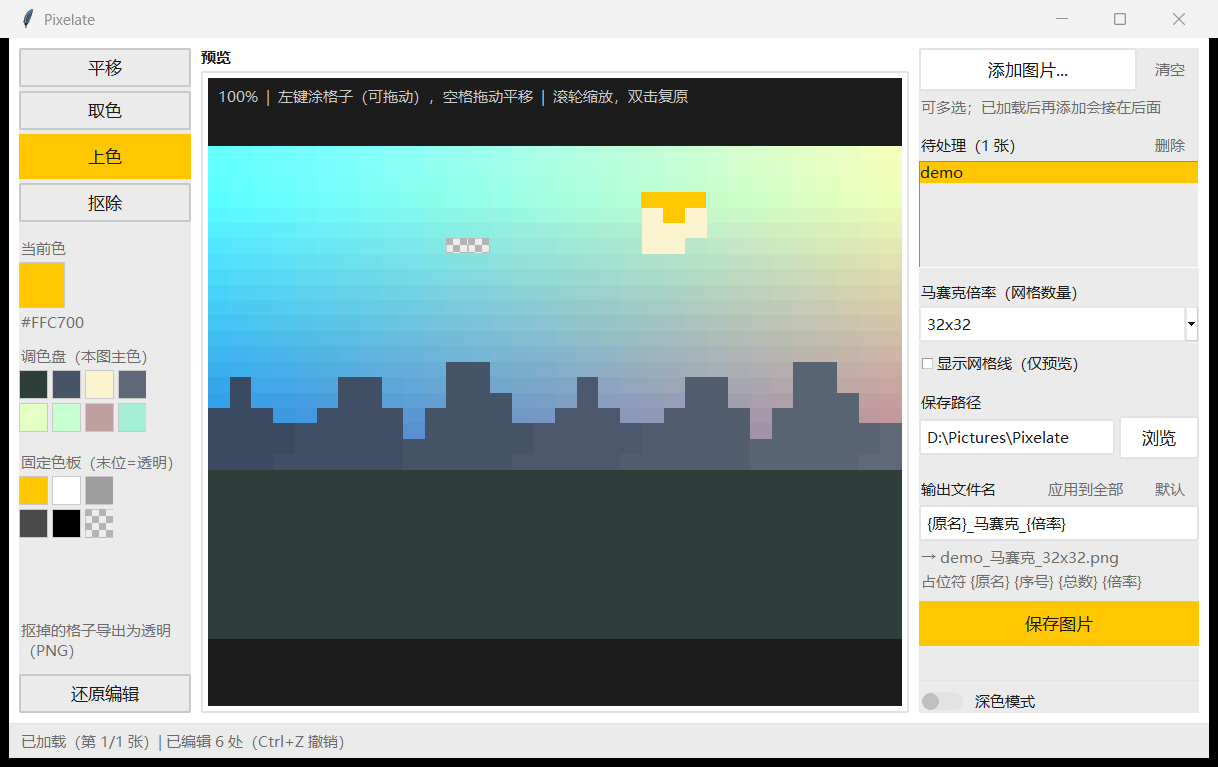
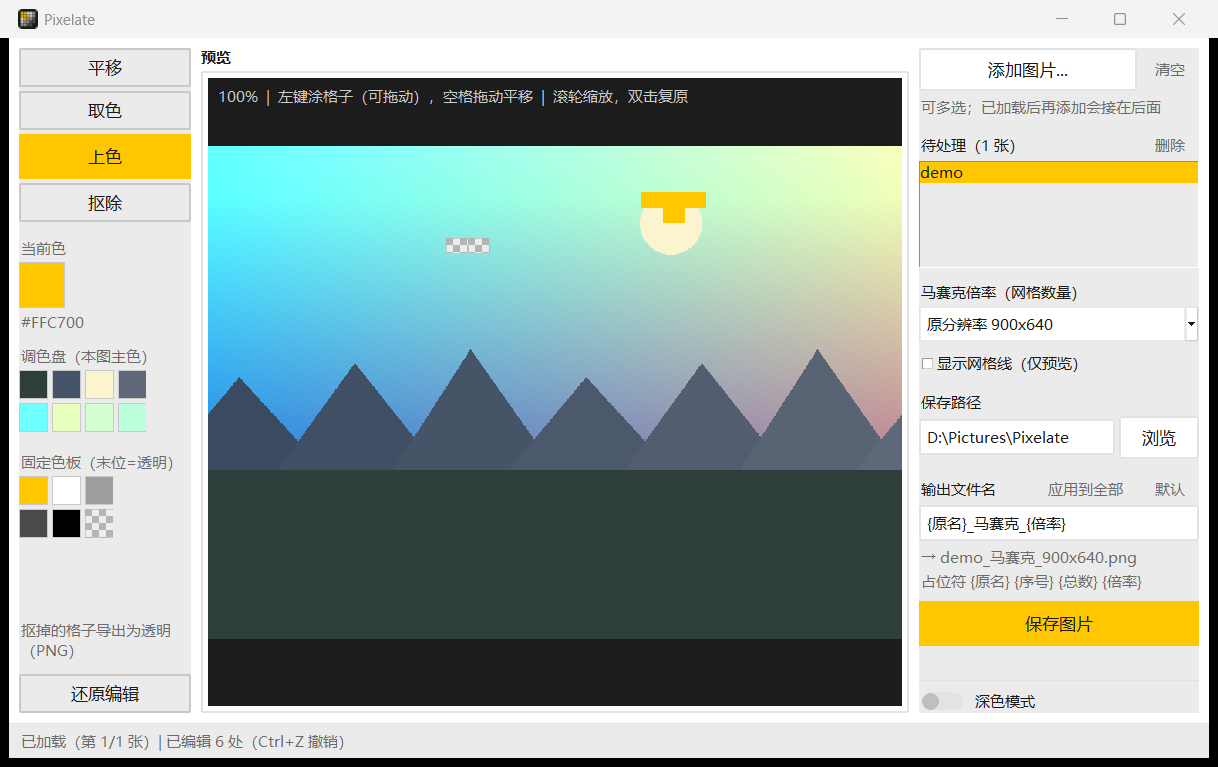
修三处：导入保留透明区、大图卡顿、中键平移
1. 导入不再把透明像素烤成黑块
   - has_alpha() 判别 RGBA / LA / P+transparency，带透明就保留 RGBA
   - 预览对真透明区叠 7px 棋盘格（_preview_rgb / _checker_bg）
   - extract_palette 先叠白底，透明区的黑色不再污染调色盘

2. 大图不再卡（根因是 Tk 的 ImageTk.PhotoImage，不是 Pillow）
   - MAX_PREVIEW_PIXELS=4M 封顶绘制缓冲，超出按比例降采样
   - _photo_for() 按 (尺寸, _rev) 缓存 PhotoImage，平移命中缓存
   - 网格线格数 >600 时不画；抠除棋盘格加绘制预算
   - 实测：平移 ~0ms/帧（原来几百 ms），常规重绘 ~4.7ms

3. 中键拖拽在任意工具下都能平移

另：README 截图重拍（之前漏调 apply_window_icon，标题栏显示的是默认图标）。

diff --git a/mosaic_app.py b/mosaic_app.py
@@ -18,6 +18,10 @@ APP_NAME = "Pixelate"
 ICON_NAME = "icon.ico"
 SETTINGS_FILE = "settings.json"
 HISTORY_LIMIT = 50
+MAX_PREVIEW_PIXELS = 4_000_000
+GRID_LINE_LIMIT = 600
+ERASED_PATTERN_BUDGET = 240
+ERASED_CHECKER_PX = 7
 PALETTE_SIZE = 8
 FIXED_COLORS = ["#FFC700", "#FFFFFF", "#9E9E9E", "#4A4A4A", "#000000"]
 DEFAULT_NAME_TEMPLATE = "{原名}_马赛克_{倍率}"
@@ -496,9 +500,26 @@ def _hex_to_rgb(text):
     return tuple(int(text[i : i + 2], 16) for i in (0, 2, 4))
 
 
+def has_alpha(img):
+    """PNG 透明区（RGBA / LA / 调色板带 transparency）必须保留，否则会被烤成黑块。"""
+    if img.mode in ("RGBA", "LA"):
+        return True
+    return img.mode == "P" and "transparency" in img.info
+
+
 def extract_palette(img, count=8, min_distance=28, sample=48):
-    """从图里取主色：缩到 sample×sample 计数，按占比排序，距离太近的合并掉。"""
-    small = img.convert("RGB").resize((sample, sample), Image.Resampling.NEAREST)
+    """从图里取主色：缩到 sample×sample 计数，按占比排序，距离太近的合并掉。
+
+    带透明的图先叠到白底上，否则透明区的黑色会污染调色盘。
+    """
+    small = img.resize((sample, sample), Image.Resampling.NEAREST)
+    if small.mode == "RGBA":
+        if small.getchannel("A").getextrema()[0] < 255:
+            white = Image.new("RGBA", small.size, (255, 255, 255, 255))
+            small = Image.alpha_composite(white, small)
+        small = small.convert("RGB")
+    else:
+        small = small.convert("RGB")
     colors = small.getcolors(sample * sample + 1) or []
     colors.sort(key=lambda pair: -pair[0])
     picked = []
@@ -612,6 +633,8 @@ class MosaicApp:
         self._stroke_cells = set()
         self._draw_size = (1, 1)
         self._draw_pos = None
+        self._rev = 0
+        self._photo_cache = None
         self._swatches = []
 
         self.dark = load_theme_pref() == "dark"
@@ -642,6 +665,9 @@ class MosaicApp:
         self.canvas.bind("<ButtonPress-1>", self.on_canvas_press)
         self.canvas.bind("<B1-Motion>", self.on_canvas_motion)
         self.canvas.bind("<ButtonRelease-1>", self.on_canvas_release)
+        self.canvas.bind("<ButtonPress-2>", self.on_middle_press)
+        self.canvas.bind("<B2-Motion>", self.on_middle_motion)
+        self.canvas.bind("<ButtonRelease-2>", self.on_middle_release)
         self._build_overlay(left)
         root.bind("<KeyPress-space>", self._on_space_down)
         root.bind("<KeyRelease-space>", self._on_space_up)
@@ -1030,6 +1056,17 @@ class MosaicApp:
         self.pan_start = None
         self.anchor_start = None
 
+    def on_middle_press(self, event):
+        """中键拖拽 = 任何工具下都能平移。"""
+        self.on_pan_start(event)
+
+    def on_middle_motion(self, event):
+        self.on_pan_move(event)
+
+    def on_middle_release(self, event):
+        self.pan_start = None
+        self.anchor_start = None
+
     def _pick_cell(self, cell):
         """吸管：取该格当前显示的颜色（编辑过的也算数，所见即所得）。"""
         item = self.current
@@ -1055,6 +1092,7 @@ class MosaicApp:
         item.patches.append(EditPatch(*rect, color))
         if self.preview_img is not None:
             self.preview_img = apply_patches(self.preview_img, [item.patches[-1]])
+            self._rev += 1
         self.redraw_preview()
 
     def _focused_entry(self):
@@ -1278,7 +1316,10 @@ class MosaicApp:
             try:
                 img = Image.open(p)
                 img = ImageOps.exif_transpose(img)
-                img = img.convert("RGB")
+                if has_alpha(img):
+                    img = img.convert("RGBA")   # 保留原有透明区，别转成 RGB 把它烤成黑块
+                else:
+                    img = img.convert("RGB")
                 items.append(QueueItem(p, img, DEFAULT_NAME_TEMPLATE))
             except Exception as e:
                 errors.append(f"{os.path.basename(p)}: {e}")
@@ -1406,6 +1447,7 @@ class MosaicApp:
         self._sync_grid_box()
         self.mosaic_img = apply_mosaic(item.img, grid)
         self.preview_img = apply_patches(self.mosaic_img, item.patches)
+        self._rev += 1
         total = len(self.queue)
         pos = f"（第 {self.index + 1}/{total} 张）" if total > 1 else ""
         label = grid_label(self.grid_mode, item.img.size)
@@ -1424,10 +1466,11 @@ class MosaicApp:
             return
         w, h = item.img.size
         left, top = ax - tw / 2, ay - th / 2
-        step = 7
-        for p in item.patches:
-            if p.color is not None:
-                continue
+        holes = [p for p in item.patches if p.color is None]
+        if not holes:
+            return
+        budget = ERASED_PATTERN_BUDGET
+        for p in holes:
             x0 = left + p.x0 / w * tw
             y0 = top + p.y0 / h * th
             x1 = left + p.x1 / w * tw
@@ -1435,8 +1478,10 @@ class MosaicApp:
             self.canvas.create_rectangle(
                 x0, y0, x1, y1, fill="#EDEDED", outline=self.c["border_active"]
             )
-            if (x1 - x0) * (y1 - y0) / (step * step) > 400:
+            if budget <= 0:
                 continue
+            # 方块数按面积分摊到预算内，块太大就退化成纯色
+            step = max(7, int(((x1 - x0) * (y1 - y0) / budget) ** 0.5) + 1)
             rows = int((y1 - y0) // step) + 1
             cols = int((x1 - x0) // step) + 1
             for ry in range(rows):
@@ -1449,6 +1494,7 @@ class MosaicApp:
                         sx, sy, min(sx + step, x1), min(sy + step, y1),
                         fill="#B4B4B4", outline="",
                     )
+            budget -= max(rows * cols // 2, 1)
 
     def _hint_text(self, z):
         tips = {
@@ -1458,6 +1504,51 @@ class MosaicApp:
             "erase": "左键抠掉格子（可拖动），空格拖动平移",
         }
         return f"{z * 100:.0f}%  |  {tips.get(self.tool, '')}  |  滚轮缩放，双击复原"
+
+    def _checker_bg(self, tw, th):
+        """7px 棋盘格底：在目标分辨率上按行拼出来。
+
+        别想着「画个小 tile 再放大」——NEAREST 会把格子一起放大成大色块（踩过）。
+        """
+        k = ERASED_CHECKER_PX
+        w = max(tw // k * k, 2 * k)
+        h = max(th // k * k, 2 * k)
+        strips = []
+        for offset in (0, k):
+            strip = Image.new("RGB", (w, k), "#EDEDED")
+            d = ImageDraw.Draw(strip)
+            for x in range(offset, w, 2 * k):
+                d.rectangle([x, 0, x + k - 1, k - 1], fill="#B4B4B4")
+            strips.append(strip)
+        bg = Image.new("RGB", (w, h), "#EDEDED")
+        for row in range(h // k):
+            bg.paste(strips[row % 2], (0, row * k))
+        return bg.crop((0, 0, tw, th))
+
+    def _preview_rgb(self, tw, th):
+        """缩到 (tw, th) 并把透明区域画成棋盘格（所见即所得：棋盘格 = 导出后的透明）。"""
+        img = self.preview_img.resize((tw, th), Image.Resampling.NEAREST)
+        if img.mode != "RGBA":
+            return img
+        alpha = img.getchannel("A")
+        if alpha.getextrema()[0] == 255:
+            return img.convert("RGB")
+        return Image.composite(img.convert("RGB"), self._checker_bg(tw, th), alpha)
+
+    def _fit_buffer(self, tw, th):
+        """限制绘制缓冲大小：Tk 的 PhotoImage 是逐像素拷贝，放大到上万像素会爆内存。"""
+        if tw * th <= MAX_PREVIEW_PIXELS:
+            return tw, th
+        k = (MAX_PREVIEW_PIXELS / (tw * th)) ** 0.5
+        return max(int(tw * k), 1), max(int(th * k), 1)
+
+    def _photo_for(self, tw, th):
+        key = (tw, th, self._rev)
+        if self._photo_cache and self._photo_cache[0] == key:
+            return self._photo_cache[1]
+        photo = ImageTk.PhotoImage(self._preview_rgb(tw, th))
+        self._photo_cache = (key, photo)
+        return photo
 
     def redraw_preview(self):
         if not self.preview_img:
@@ -1477,6 +1568,7 @@ class MosaicApp:
         self.base_scale = base
         z = self.zoom
         tw, th = max(int(w * base * z), 1), max(int(h * base * z), 1)
+        tw, th = self._fit_buffer(tw, th)
         self._draw_size = (tw, th)
         self.preview_scale = base * z
         if self.anchor is None:
@@ -1484,16 +1576,15 @@ class MosaicApp:
         else:
             ax, ay = self.anchor
         self._draw_pos = (ax, ay)
-        photo = ImageTk.PhotoImage(
-            self.preview_img.resize((tw, th), Image.Resampling.NEAREST)
-        )
+        photo = self._photo_for(tw, th)
         self.canvas.delete("all")
         self.canvas.create_image(ax, ay, image=photo, anchor=tk.CENTER)
         if self.grid_lines.get():
             gw, gh = self.current_grid
             step_x, step_y = tw / gw, th / gh
             line_color = self.c["grid_line"]
-            if step_x >= 3 and step_y >= 3:
+            # 格太密就别画了：几千条线每次重绘都要重建，纯属自己找罪受
+            if step_x >= 3 and step_y >= 3 and gw + gh <= GRID_LINE_LIMIT:
                 x0, y0 = ax - tw / 2, ay - th / 2
                 for i in range(1, gw):
                     x = x0 + i * step_x

diff --git a/smoke_test.py b/smoke_test.py
@@ -146,6 +146,39 @@ assert render_mosaic(src, (5, 3)).getpixel((3, 2)) == (120, 160, 7, 255)
 assert render_name_template("{倍率}", "z", 1, 1, (5, 3)) == "5x3"
 assert apply_mosaic(src, (2, 3)).size == src.size
 print("native grid OK")
+
+# 透明区必须保留，不能被烤成黑块
+from mosaic_app import MAX_PREVIEW_PIXELS, has_alpha, MosaicApp
+
+rgba = Image.new("RGBA", (8, 8), (10, 20, 30, 255))
+rgba.putpixel((3, 3), (200, 0, 0, 0))
+assert has_alpha(rgba)
+assert not has_alpha(Image.new("RGB", (4, 4)))
+pal_img = Image.new("P", (4, 4))
+pal_img.info["transparency"] = 0
+assert has_alpha(pal_img), "调色板 PNG 的 transparency 也要认"
+assert not has_alpha(Image.new("L", (4, 4)))
+
+kept = Image.alpha_composite(Image.new("RGBA", (8, 8), (0, 0, 0, 0)), rgba)
+assert kept.getpixel((3, 3))[3] == 0, "透明像素仍是透明"
+assert kept.getpixel((0, 0))[3] == 255
+baked = rgba.convert("RGB").getpixel((3, 3))
+assert baked == (200, 0, 0), "这正是要避免的『透明被烤成实色』"
+
+# 透明区的颜色不能污染调色盘（叠白底后应接近白）
+clear = Image.new("RGBA", (40, 40), (10, 200, 10, 255))
+clear.paste((0, 0, 0, 0), (0, 0, 40, 20))
+pal = extract_palette(clear, count=4, min_distance=10)
+assert (10, 200, 10) in pal, pal
+assert not any(c == (0, 0, 0) for c in pal), f"透明区被当成黑色：{pal}"
+
+# 绘制缓冲上限：再大的缩放也不能超过 MAX_PREVIEW_PIXELS
+app = MosaicApp.__new__(MosaicApp)
+assert MosaicApp._fit_buffer(app, 40000, 40000)[0] * \
+    MosaicApp._fit_buffer(app, 40000, 40000)[1] <= MAX_PREVIEW_PIXELS
+assert MosaicApp._fit_buffer(app, 700, 500) == (700, 500), "正常尺寸不裁剪"
+assert MosaicApp._fit_buffer(app, 100, 100) == (100, 100)
+print("alpha & buffer OK")
 print("edits OK")
 
 from mosaic_app import QueueItem as _QI

diff --git a/README.md b/README.md
@@ -65,6 +65,9 @@ python make_icon.py   # -> icon.ico（7 个尺寸）+ icon_preview.png
 ## 说明
 
 - 导出统一为 PNG；用「抠除」扣掉的格子会导出为**真透明**
+- 导入的 PNG 若本身带透明区，会**原样保留**（不会变成黑块），预览里同样显示为棋盘格
+- 大图也流畅：绘制缓冲有上限，超出时自动降采样渲染，缩放/平移不会卡死
+- **中键拖拽**在任意工具下都能平移（空格临时切换也行）
 - 马赛克只改内容不改尺寸，导出分辨率与原图一致
 - 在「原分辨率」档下，每个源像素就是一格，编辑相当于逐像素改（像素画模式）
 - 马赛克后的 PNG 通常小很多（真实照片 4K 图在 16x16 下可从 3 MB 降到几十 KB）
